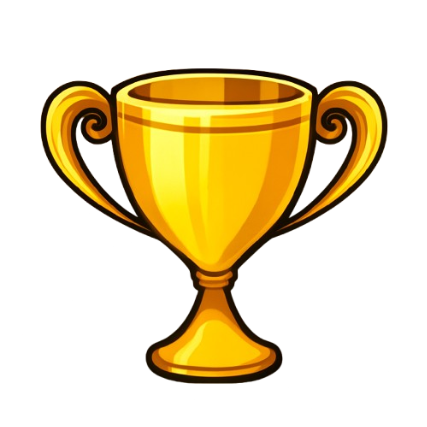
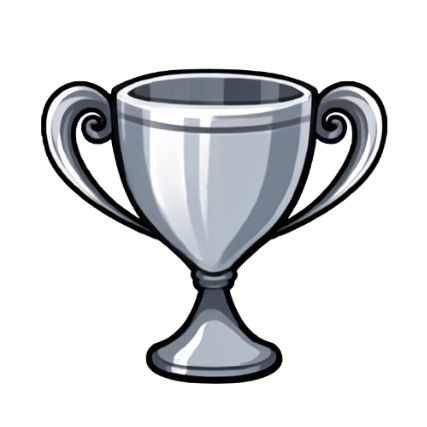
Fetching achievements from supabase and updating images

Changed region(s): [[0.0913, 0.1522, 0.9133, 0.9133]]

diff --git a/app/(tabs)/progress.tsx b/app/(tabs)/progress.tsx
@@ -7,16 +7,20 @@ import { getImageTrophy } from '@/utils/progress/getImageTrophy';
 import { formatDate } from '@/utils/formatDate';
 import { useRouter } from 'expo-router';
 import { getImageWord } from '@/utils/progress/getImageWord';
+import { getAchievements } from '@/utils/progress/getAchievements';
 
 export default function ProgressScreen() {
     const [level, setLevel] = useState<number | 0>(0);
     const [achievements, setAchievements] = useState<number | 0>(0);
+    const [trophies, setTrophies] = useState<number | 0>(0);
     const [words, setWords] = useState<number | 0>(0);
     const [wordsInfo, setWordsInfo] = useState<Record<string, string>[]>([]);
     const router = useRouter();
 
     useEffect(() => {
         const fetchData = async () => {
+            const achievements = await getAchievements();
+            setAchievements(achievements.length);
             const learnedWords = await getLearnedWords();
             setWordsInfo(learnedWords);
         };
@@ -31,9 +35,9 @@ export default function ProgressScreen() {
                     Level {level} <Text style={{ fontSize: 16, color: '#888' }}>Tap to change</Text>
                 </Text>
             </TouchableOpacity>
-            <TouchableOpacity onPress={() => setAchievements((prev) => (prev + 1) % 4)}>
+            <TouchableOpacity onPress={() => setTrophies((prev) => (prev + 1) % 5)}>
                 <Text style={styles.heading}>
-                    Trophy {achievements}{' '}
+                    Trophy {trophies}{' '}
                     <Text style={{ fontSize: 16, color: '#888' }}>Tap to change</Text>
                 </Text>
             </TouchableOpacity>
@@ -47,7 +51,7 @@ export default function ProgressScreen() {
                 <StatBox
                     label="Trophies"
                     value={achievements ?? '...'}
-                    image={() => getImageTrophy(achievements)}
+                    image={() => getImageTrophy(trophies)}
                 />
                 <StatBox
                     label="Words Learned"

diff --git a/utils/progress/getImageTrophy.ts b/utils/progress/getImageTrophy.ts
@@ -2,6 +2,7 @@ import trophy0 from '@/assets/progress/trophies/trophy0.png';
 import trophy1 from '@/assets/progress/trophies/trophy1.png';
 import trophy2 from '@/assets/progress/trophies/trophy2.png';
 import trophy3 from '@/assets/progress/trophies/trophy3.png';
+import trophy4 from '@/assets/progress/trophies/trophy4.png';
 
 export function getImageTrophy(trophy: number) {
     switch (trophy) {
@@ -13,5 +14,7 @@ export function getImageTrophy(trophy: number) {
             return trophy2;
         case 3:
             return trophy3;
+        case 4:
+            return trophy4;
     }
 }

diff --git a/utils/progress/getAchievements.ts b/utils/progress/getAchievements.ts
@@ -1,0 +1,14 @@
+import { readUserData } from '@/database/crudOperations';
+import { ReadInputCommandType } from '@/database/dbTypes';
+
+export async function getAchievements(): Promise<Record<string, string>[]> {
+    const readInput: ReadInputCommandType = {
+        TableName: 'user_achievements',
+    };
+    const data = await readUserData(readInput);
+    console.log('Achievements data:', data);
+    if (!data) {
+        return [];
+    }
+    return data;
+}
